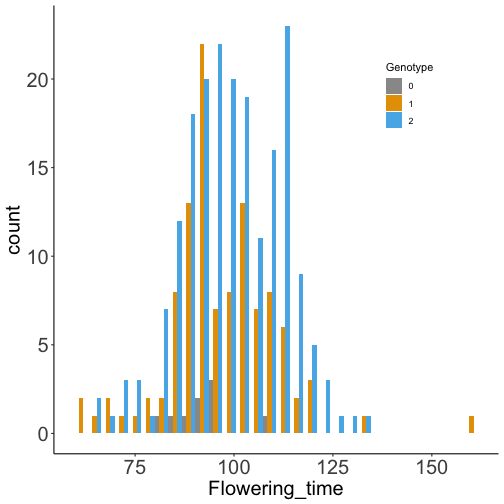
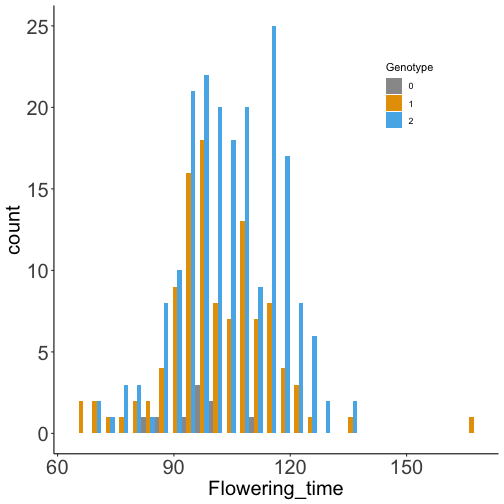
updates

diff --git a/2026-agro931/week10/week10_c1.html b/2026-agro931/week10/week10_c1.html
@@ -4,7 +4,7 @@
     <title>Breeding value interpretation</title>
     <meta charset="utf-8" />
     <meta name="author" content="Jinliang Yang" />
-    <meta name="date" content="2024-03-25" />
+    <meta name="date" content="2026-03-06" />
     <script src="libs/header-attrs/header-attrs.js"></script>
     <link href="libs/remark-css/default.css" rel="stylesheet" />
     <link rel="stylesheet" href="../../asset/unl-150.css" type="text/css" />
@@ -20,7 +20,7 @@ class: center, middle, inverse, title-slide
 ### Jinliang Yang
 ]
 .date[
-### March 25, 2024
+### March 6, 2026
 ]
 
 ---
@@ -93,7 +93,7 @@ Therefore,
 An R function to calculate genotypic values
 
 
-```r
+``` r
 gfunction &lt;- function(a=1, d=0, p=1/2){
    # a: additive effect
    # d: dominance effect
@@ -118,7 +118,7 @@ gfunction &lt;- function(a=1, d=0, p=1/2){
 ### Apply the R function
 
 
-```r
+``` r
 out &lt;- gfunction(a=1, d=-1, p=1/3)
 #out
 out$dd &lt;- out$gv - out$bv
@@ -136,7 +136,7 @@ out
 # Plot the results
 
 
-```r
+``` r
 plot(out$N1, out$gv, xlab="Genotype", ylab="", ylim=c(-1, 2), cex.lab=1.5, xaxt="n", pch=17, cex=2, col="red"); 
 # add the axis and labels
 axis(1, at=c(0, 1, 2), labels=c("A2A2", "A1A2", "A1A1")); 
@@ -188,10 +188,10 @@ G = &amp; 2\alpha_2  + \alpha N_1 + \delta
 # Predicting BV: a real-world data
 
 
-```r
+``` r
 # read phenotype and genotype data
-flowering &lt;- read.table("https://jyanglab.com/slides/flowering.csv", 
-                        sep=",", header=TRUE)
+flowering &lt;- read.csv("https://jyanglab.com/slides/flowering.csv")
+
 dim(flowering)
 ```
 
@@ -199,21 +199,21 @@ dim(flowering)
 ## [1] 413   7
 ```
 
-```r
+``` r
 head(flowering)
 ```
 
 ```
 ##   FID IID Flowering_time snp1 snp2 snp3     type
-## 1  F1   1       85.08333    2    2    1 training
-## 2  F2   3      101.50000    2    2    2 training
-## 3  F3   4      106.50000    2    2    2 training
-## 4  F4   5       99.50000    2    2    2 training
-## 5  F5   6       95.08333    1    1    1 training
-## 6  F6   7      111.00000    1    1    1 training
+## 1  F1   1       90.08333    2    2    1 training
+## 2  F2   3      107.50000    2    2    2 training
+## 3  F3   4      112.50000    2    2    2 training
+## 4  F4   5      105.50000    2    2    2 training
+## 5  F5   6       98.08333    1    1    1 training
+## 6  F6   7      114.00000    1    1    1 training
 ```
 
-```r
+``` r
 table(flowering$type)
 ```
 
@@ -223,7 +223,7 @@ table(flowering$type)
 ##       63      350
 ```
 
-```r
+``` r
 f &lt;- subset(flowering, type == "training")
 ```
 
@@ -231,7 +231,7 @@ f &lt;- subset(flowering, type == "training")
 # Visualize the phenotypic data
 
 
-```r
+``` r
 library(ggplot2)
 p &lt;- ggplot(f, aes(x=Flowering_time, fill=as.factor(snp1))) +
   geom_histogram(position="dodge")+
@@ -276,7 +276,7 @@ The number of copies of the A1 allele:
 - A2A2 -&gt; 0
 
 
-```r
+``` r
 A1A1 &lt;- mean(subset(f, snp1 == 2)$Flowering_time, na.rm=TRUE)
 A1A2 &lt;- mean(subset(f, snp1 == 1)$Flowering_time, na.rm=TRUE)
 A2A2 &lt;- mean(subset(f, snp1 == 0)$Flowering_time, na.rm=TRUE)
@@ -284,23 +284,23 @@ A1A1
 ```
 
 ```
-## [1] 99.13419
+## [1] 104.2302
 ```
 
-```r
+``` r
 A1A2
 ```
 
 ```
-## [1] 96.27799
+## [1] 100.5053
 ```
 
-```r
+``` r
 A2A2
 ```
 
 ```
-## [1] 92.94753
+## [1] 96.28086
 ```
 
 ---
@@ -310,7 +310,7 @@ A2A2
 #### Step1: For each SNP, find out __ `\(a\)`__, __ `\(d\)`__, `\(p\)`, and `\(M\)`
 
 
-```r
+``` r
 ### mid point
 m &lt;- (A1A1 + A2A2)/2
 a &lt;- A1A1 - m
@@ -326,7 +326,7 @@ d &lt;- A1A2 - m
 Allele freq for __A1__ (Note it is in __`2`__ coding)
 
 
-```r
+``` r
 table(f$snp1)
 ```
 
@@ -339,7 +339,7 @@ table(f$snp1)
 --
 
 
-```r
+``` r
 getp &lt;- function(df=f$snp1){
   t &lt;- as.data.frame(table(df))
   c11 &lt;- subset(t, df==2)$Freq
@@ -355,7 +355,7 @@ p
 ## [1] 0.7942857
 ```
 
-```r
+``` r
 q &lt;- 1 -p
 ```
 
@@ -365,38 +365,38 @@ q &lt;- 1 -p
 #### Step1: For each SNP, find out `\(a, d\)`, `\(p\)`, and __ `\(M\)`__
 
 
-```r
+``` r
 M1 &lt;- mean(f$Flowering_time, na.rm=T)
 M1
 ```
 
 ```
-## [1] 97.96743
+## [1] 102.7119
 ```
 
-```r
+``` r
 M2 &lt;- a*(p-q) + 2*d*p*q
 M2
 ```
 
 ```
-## [1] 1.898136
+## [1] 2.420978
 ```
 
-```r
+``` r
 M1 - M2
 ```
 
 ```
-## [1] 96.0693
+## [1] 100.2909
 ```
 
-```r
+``` r
 m
 ```
 
 ```
-## [1] 96.04086
+## [1] 100.2555
 ```
 
 
@@ -414,7 +414,7 @@ m
 --
 
 
-```r
+``` r
 # allele sub effect
 alpha &lt;- a + d*(q-p) 
 a1a1 &lt;- 2*alpha*q 
@@ -427,16 +427,16 @@ a2a2 &lt;- -2*p*alpha
 Apply the previous `gfunction` to get BV for snp1
 
 
-```r
+``` r
 out2 &lt;- gfunction(a=a, d=d, p=p)
 out2
 ```
 
 ```
 ##   N1        gv        bv
-## 1  0 -4.991466 -4.692268
-## 2  1 -1.661012 -1.738502
-## 3  2  1.195194  1.215264
+## 1  0 -6.395621 -6.080492
+## 2  1 -2.171228 -2.252844
+## 3  2  1.553666  1.574804
 ```
 
 ---
@@ -444,7 +444,7 @@ out2
 ### Repeat the process for snp2 and snp3
 
 
-```r
+``` r
 bv &lt;- function(f, snpid="snp1", trait="Flowering_time"){
   A1A1 &lt;- mean(f[f[, snpid]==0, trait], na.rm=TRUE)
   A1A2 &lt;- mean(f[f[, snpid]==1, trait], na.rm=TRUE)
@@ -470,9 +470,9 @@ bv(f, snpid="snp1", trait="Flowering_time")
 
 ```
 ##   N1        gv        bv
-## 1  0  4.836486  5.135684
-## 2  1  1.980280  1.902789
-## 3  2 -1.350175 -1.330105
+## 1  0  6.232389  6.547518
+## 2  1  2.507495  2.425879
+## 3  2 -1.716898 -1.695760
 ```
 
 ---
@@ -493,7 +493,7 @@ Where summation occurs across the number of loci ( `\(k\)` ) and the two alleles
 --
 
 
-```r
+``` r
 b1 &lt;- bv(f, snpid="snp1", trait="Flowering_time")
 b2 &lt;- bv(f, snpid="snp2", trait="Flowering_time")
 b3 &lt;- bv(f, snpid="snp3", trait="Flowering_time")
@@ -501,10 +501,10 @@ b3
 ```
 
 ```
-##   N1        gv        bv
-## 1  0  1.153707  2.405023
-## 2  1  1.225328  0.640331
-## 3  2 -1.397850 -1.124361
+##   N1        gv         bv
+## 1  0  2.493950  3.6833766
+## 2  1  1.536753  0.9806894
+## 3  2 -1.981960 -1.7219979
 ```
 
 ---
@@ -514,7 +514,7 @@ b3
 ### Step3: Sum up the BV of all SNPs
 
 
-```r
+``` r
 t &lt;- subset(flowering, type=="test")
 dim(t)
 ```
@@ -523,14 +523,14 @@ dim(t)
 ## [1] 63  7
 ```
 
-```r
+``` r
 head(t, 4)
 ```
 
 ```
 ##      FID IID Flowering_time snp1 snp2 snp3 type
 ## 351 F351  52             NA    2    2    0 test
-## 352 F352  54       118.8333    1    2    2 test
+## 352 F352  54       123.8333    1    2    2 test
 ## 353 F353  62             NA    2    1    2 test
 ## 354 F354  64             NA    2    2    2 test
 ```
@@ -540,12 +540,12 @@ head(t, 4)
 BV for individual `F356`:
 
 
-```r
+``` r
 b1[b1$N1 ==2, ]$bv + b2[b2$N1 ==2, ]$bv + b3[b3$N1 ==2, ]$bv + M1
 ```
 
 ```
-## [1] 95.48984
+## [1] 99.15556
 ```
 
 ---
@@ -555,7 +555,7 @@ b1[b1$N1 ==2, ]$bv + b2[b2$N1 ==2, ]$bv + b3[b3$N1 ==2, ]$bv + M1
 ### Step3: Sum up the BV of all SNPs
 
 
-```r
+``` r
 mygs &lt;- function(t, b1, b2, b3){
   t$yhat &lt;- -9
   for(i in 1:nrow(t)){
@@ -573,13 +573,13 @@ cor.test(out$Flowering_time, out$yhat+M1)
 ## 	Pearson's product-moment correlation
 ## 
 ## data:  out$Flowering_time and out$yhat + M1
-## t = -1.1976, df = 55, p-value = 0.2362
+## t = -1.9679, df = 55, p-value = 0.05413
 ## alternative hypothesis: true correlation is not equal to 0
 ## 95 percent confidence interval:
-##  -0.4032380  0.1055306
+##  -0.484653385  0.004386153
 ## sample estimates:
 ##        cor 
-## -0.1594208
+## -0.2564746
 ```
 
 
